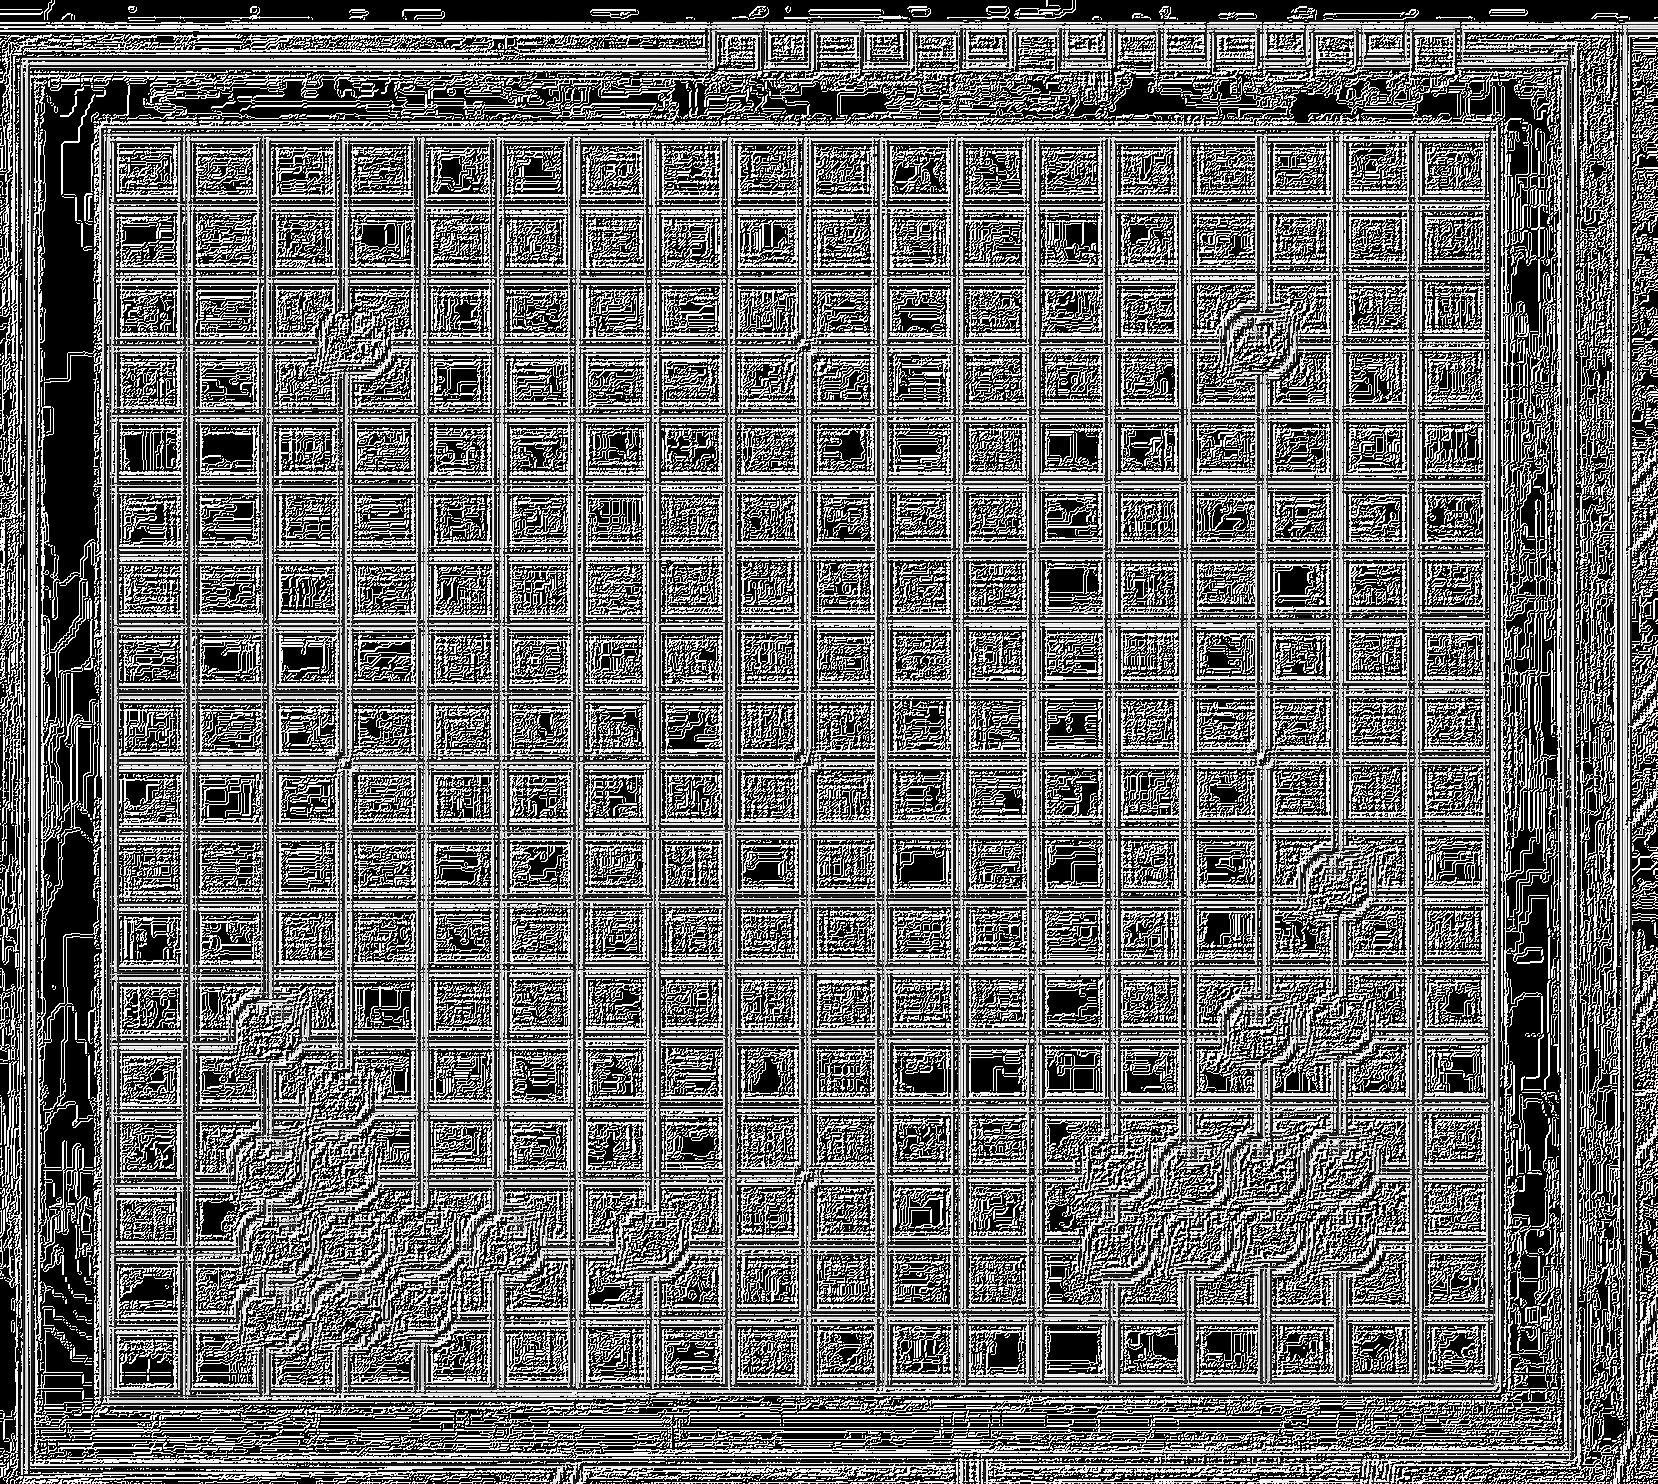
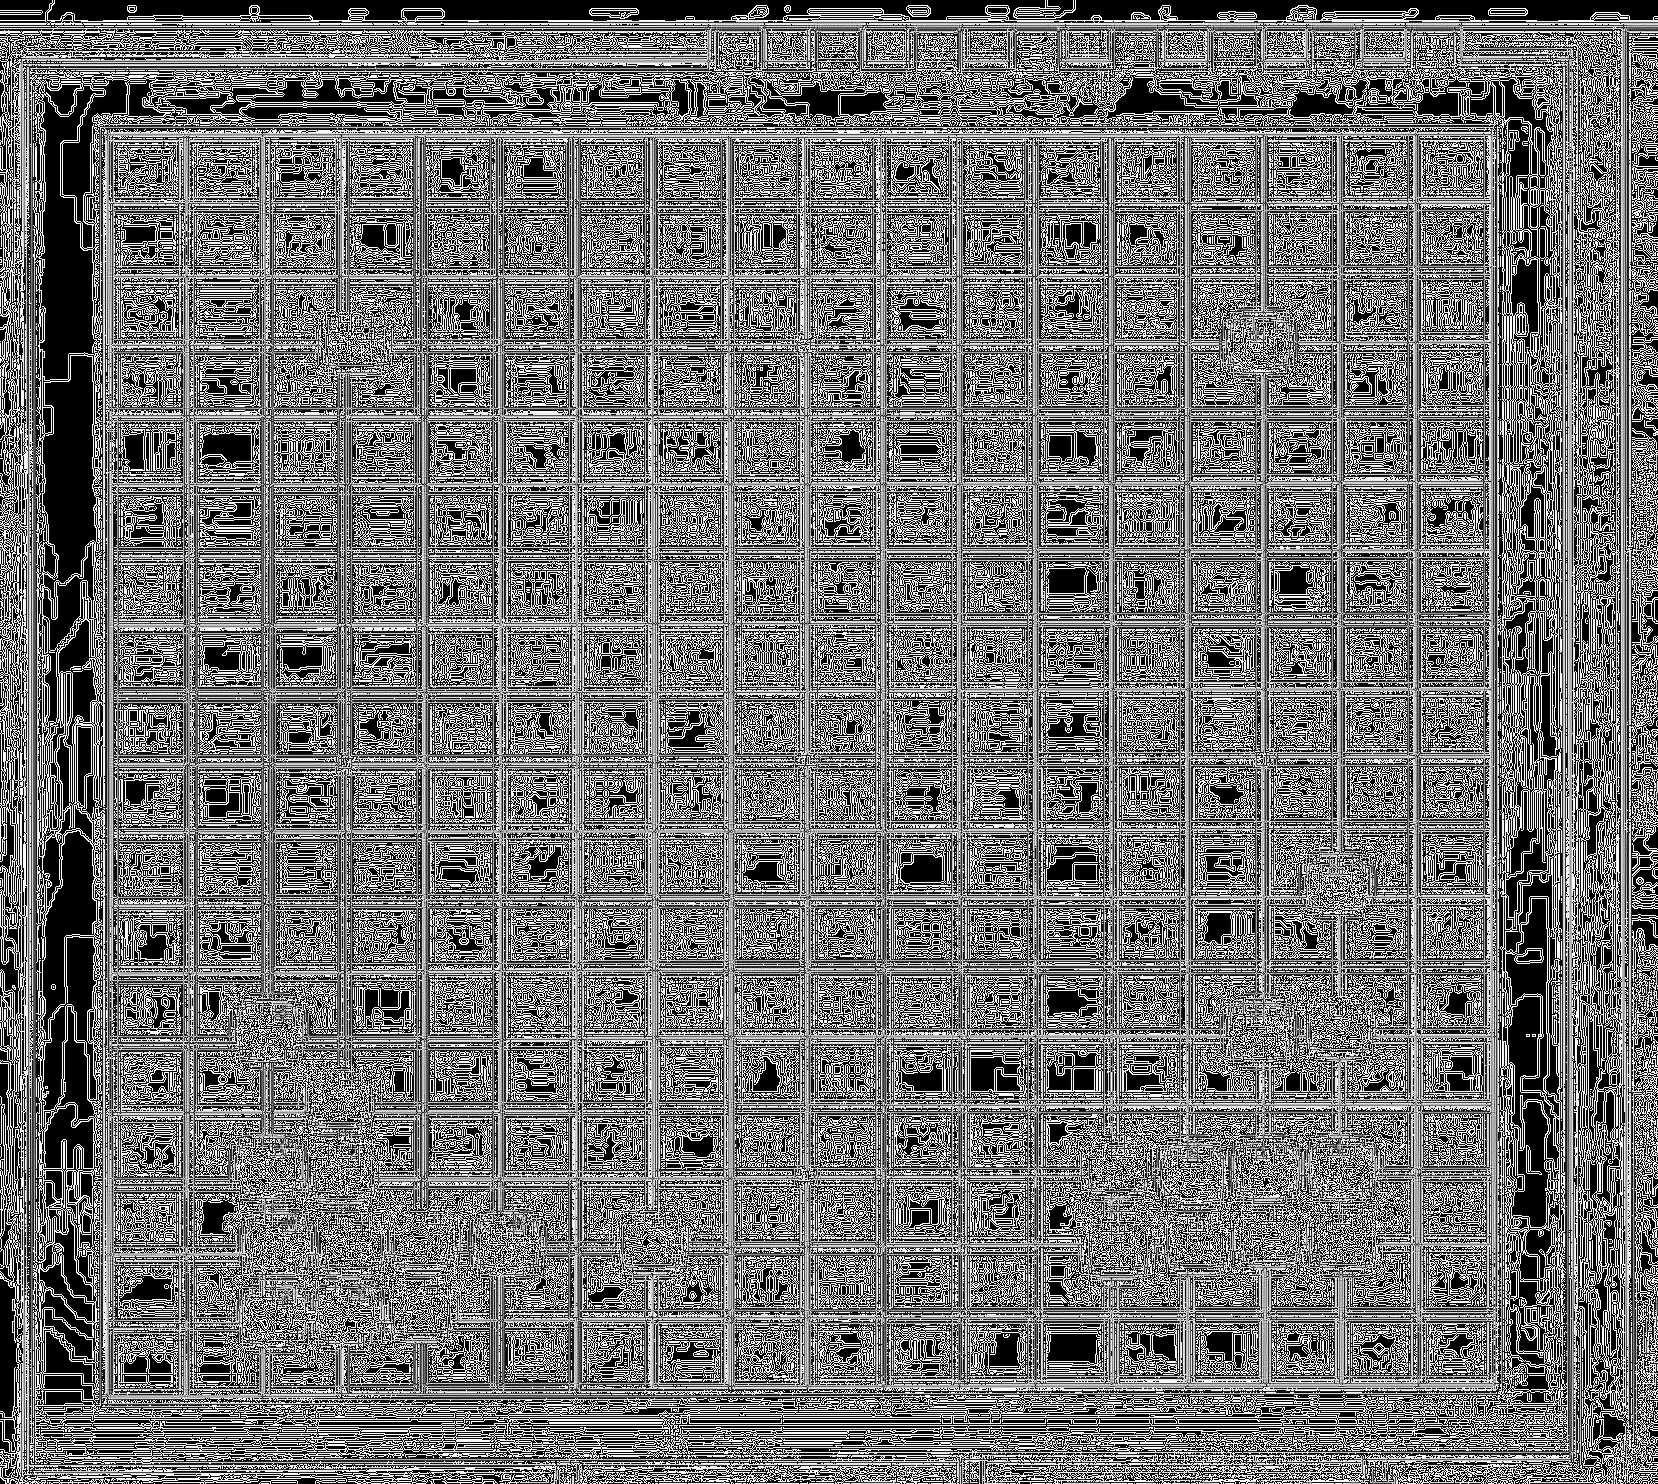
working on computer vision part

diff --git a/BoardRecognition/image_processing.py b/BoardRecognition/image_processing.py
@@ -1,44 +1,62 @@
 import numpy as np
 import cv2
+import matplotlib.pyplot as plt
+import utils
 
 class PreProcessImage:
-    def __init__(self, kernelSize):
+    def __init__(self):
         self.ddepth = cv2.CV_64F
-        self.kernelSize = kernelSize
-
-    def gradients(self, image_bw, kSize = 5):
-        Ix = cv2.Sobel(image_bw, self.ddepth, 1, 0, kSize)
-        Iy = cv2.Sobel(image_bw, self.ddepth, 0, 1, kSize)
-        return Ix, Iy
+        self.kernal = np.array([[-1,-1,-1],
+                                [-1,8,-1],
+                                [-1,-1,-1]])
+        self.laplace_kernal = np.array([[0,1,0],
+                                        [1,-4,1],
+                                        [0,1,0]])
 
     def process(self, image):
         # transform into gray scale
-        gray = cv2.cvtColor(image, cv2.COLOR_BGR2GRAY)
+        gray = cv2.cvtColor(image, cv2.COLOR_BGR2GRAY).astype(np.float64)
+
         # Laplace operator for edge detection to reduce noices
-        laplacian = cv2.Laplacian(gray, self.ddepth, self.kernelSize)
-        #laplacian = cv2.convertScaleAbs(laplacian)
+        laplacian = cv2.filter2D(gray,-1,self.laplace_kernal, borderType=cv2.BORDER_REFLECT)
+        utils.writeImage(laplacian,"laplace.png")
+
         # high-pass filter
-        Ix, Iy = self.gradients(laplacian,7)
-        hpf = cv2.addWeighted(Ix, 0.5, Iy, 0.5, 0)
+        hpf = cv2.filter2D(laplacian,-1,self.kernal,borderType=cv2.BORDER_REFLECT)
+        utils.writeImage(hpf,"hpf.png")
         #return image after preprocessing
-        return hpf
+        return hpf.astype(np.uint8)
 
 class BoardRecognition:
     def __init__(self):
         pass
 
-    def SGTM(self):
+    def findFourCorners(self, img):
+        lines = cv2.HoughLines(img,1, np.pi/180,2000)
+        utils.writeImageWithLines(img,lines,"find four corners lines.png")
+        pass
+
+    def findCentral(self, corners):
+        pass
+
+    def midlineInterections(self, centralPosition):
+        pass
+
+    def findInterection(self, line1, line2):
+        pass
+
+    def SGTM(self, img):
         pass
         # the process of SGTM (Simple Geometric Transform Model)
 
-        # (1) Locate coordinate of four corners and return Corner[0], Corner[1], Corner[2], Corner[3]
-        corners = self.findFourCorners()
+        # (1) use hough transsform Locate coordinate of four corners and return Corner[0], Corner[1], Corner[2], Corner[3]
+        corners = self.findFourCorners(img)
 
         # (2) base on 4 corners get the central position of the image and return the middle of the cental position
         # find the interections of the midline with the upper edge line and the lower edge line of the grid
         # return Mid_line[0], Mid_line[1]
-        centralPosition = self.findCentral(corners)
-        Mid_line = self.midlineInterection(centralPosition)
+        #centralPosition = self.findCentral(corners)
+        #Mid_line = self.midlineInterection(centralPosition)
 
         # (3) Corner[0], Mid_line[0], Mid_line[1], Corner[3] as a retangular corner points
         # then repeat (2) to find Mid_line_1[0], Mid_line_1[1] for new retangular
@@ -46,12 +64,12 @@ class BoardRecognition:
         # line between Corner[3] and Mid_line[0]
         # the interection1 between two lines above
         # interection2(L[0]), interection3(L[1]) between the upper edge line and the lower edge line through the intersection1
-        corners_1 = np.array([corners[0], Mid_line[0], Mid_line[1], corners[3]])
-        centralPosition_1 = self.findCentral(corners_1)
-        Mid_line_1 = self.midlineInterections(centralPosition_1)
-        line_0 = self.line(Mid_line_1[0], Mid_line[1])
-        line_1 = self.line(corners[3], Mid_line[0])
-        interection1 = self.findInterection(line_0, line_1)
+        #corners_1 = np.array([corners[0], Mid_line[0], Mid_line[1], corners[3]])
+        #centralPosition_1 = self.findCentral(corners_1)
+        #Mid_line_1 = self.midlineInterections(centralPosition_1)
+        #line_0 = self.line(Mid_line_1[0], Mid_line[1])
+        #line_1 = self.line(corners[3], Mid_line[0])
+        #interection1 = self.findInterection(line_0, line_1)
 
         # (4) using L[0], COrner[0], Corner[3], L[1] as a rectangular corner points
         # the midline L2, and the intersections L2[0], L2[1] are obtain between L2 with the upper edge line and the lower edge line.Mid_line.Mid_line
@@ -65,8 +83,8 @@ class BoardRecognition:
         # (8) find 361 interections of go-board base on 19x19 lines
 
     def process(self, image):
-        lines = cv2.HoughLines(image.astype(np.uint8), 400, np.pi / 180, 150)
-        return image, lines
+        self.SGTM(image)
+        pass
 
 
 class PieceRecognition:

diff --git a/BoardRecognition/board.py b/BoardRecognition/board.py
@@ -4,31 +4,13 @@ import image_processing
 import matplotlib.pyplot as plt
 import utils
 
-class SGTM:
-    def __init__(self):
-        self.VERBOSE = True
-
-    def process_image(self, image):
-        # pre processing
-        preProcessImage = image_processing.PreProcessImage(7)
-        hdr = preProcessImage.process(image)
-        # utils.visulization(hdr, "hpf image")
-
-        # board regconition
-        board = image_processing.BoardRecognition()
-        _, lines = board.process(hdr)
-        # stone recognition
-
-        if self.VERBOSE:
-            utils.writeImage(hdr, "hpf.png")
-            utils.writeImageWithLines(image, lines, "lines.png")
-        return
-
 def main():
     input = cv2.imread("./data/Zrzut ekranu 2020-04-11 o 15.42.14.png", cv2.IMREAD_COLOR)
 
-    recognition = SGTM()
-    recognition.process_image(input)
+    preProcess_img = image_processing.PreProcessImage().process(input)
+
+    board = image_processing.BoardRecognition()
+    board.findFourCorners(preProcess_img)
 
 if __name__ == "__main__":
     main()

diff --git a/BoardRecognition/utils.py b/BoardRecognition/utils.py
@@ -38,17 +38,18 @@ def writeImage(image, name):
 
 def writeImageWithLines(image, lines, name):
     path = "./data/result"
+    output = image.copy()
     if not os.path.exists(path):
         os.makedirs(path)
     if lines is not None:
-        for i in range(0, len(lines)):
-            rho = lines[i][0][0]
-            theta = lines[i][0][1]
+        for r_theta in lines:
+            arr = np.array(r_theta[0], dtype=np.float64)
+            rho , theta = arr
             a = math.cos(theta)
             b = math.sin(theta)
             x0 = a * rho
             y0 = b * rho
             pt1 = (int(x0 + 1000 * (-b)), int(y0 + 1000 * (a)))
             pt2 = (int(x0 - 1000 * (-b)), int(y0 - 1000 * (a)))
-            cv2.line(image, pt1, pt2, (0, 0, 255), 3, cv2.LINE_AA)
-    cv2.imwrite(os.path.join(path, name), image.astype(np.uint8))
+            cv2.line(output, pt1, pt2, (0, 0, 255), 3, cv2.LINE_AA)
+    cv2.imwrite(os.path.join(path, name), img= output.astype(np.uint8))
